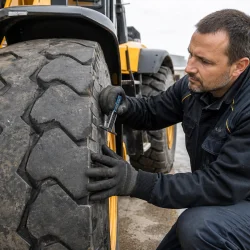
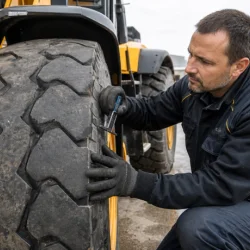
Polish article layout and image source tracking

diff --git a/public/css/style.css b/public/css/style.css
@@ -6541,6 +6541,54 @@ body.catalog-open {
 .table-striped img{width:70px}
 .bg-light {background-color: #fff !important;padding: 10px 0;}
 .contents article{padding:30px}
+.contents .cont-desc{
+  font-size: 17px;
+  line-height: 1.75;
+  color: #111827;
+  overflow-x: auto;
+}
+.contents .cont-desc p,
+.contents .cont-desc ul,
+.contents .cont-desc ol,
+.contents .cont-desc table{
+  margin: 0 0 20px;
+}
+.contents .cont-desc h2,
+.contents .cont-desc h3{
+  margin: 34px 0 16px;
+  line-height: 1.25;
+}
+.contents .cont-desc h2:first-child,
+.contents .cont-desc h3:first-child{
+  margin-top: 0;
+}
+.contents .cont-desc ul,
+.contents .cont-desc ol{
+  padding-left: 28px;
+}
+.contents .cont-desc li{
+  margin-bottom: 8px;
+}
+.contents .cont-desc table{
+  width: 100%;
+  border-collapse: collapse;
+  border: 1px solid #d7dde5;
+  background: #fff;
+}
+.contents .cont-desc th,
+.contents .cont-desc td{
+  border: 1px solid #d7dde5;
+  padding: 12px 14px;
+  vertical-align: top;
+}
+.contents .cont-desc th{
+  background: #f3f6f8;
+  font-weight: 700;
+}
+.contents .article-related-products{
+  margin-top: 36px;
+  padding-top: 8px;
+}
 .nav-item .active .badge {background-color: #fff !important;color:var(--footer) !important}
 .nav-item .badge {background-color: var(--footer) !important;color:#fff !important}
 .desc-prod-inner{margin: 20px 0}

diff --git a/scripts/add_content_image_source.php b/scripts/add_content_image_source.php
@@ -1,0 +1,27 @@
+<?php
+
+$db = require __DIR__ . '/../config/config_db.php';
+
+$pdo = new PDO($db['dsn'], $db['user'], $db['pass']);
+$pdo->setAttribute(PDO::ATTR_ERRMODE, PDO::ERRMODE_EXCEPTION);
+
+$column = $pdo->prepare("
+    SELECT COUNT(*)
+    FROM information_schema.COLUMNS
+    WHERE TABLE_SCHEMA = DATABASE()
+      AND TABLE_NAME = 'contents'
+      AND COLUMN_NAME = 'img_source'
+");
+$column->execute();
+
+if ((int)$column->fetchColumn() === 0) {
+    $pdo->exec("
+        ALTER TABLE contents
+        ADD img_source ENUM('internet','ai','original','editor') NOT NULL DEFAULT 'internet'
+        AFTER img
+    ");
+}
+
+$pdo->exec("UPDATE contents SET img_source = 'internet' WHERE img_source IS NULL OR img_source = ''");
+
+echo "contents.img_source is ready" . PHP_EOL;

diff --git a/app/views/itscenter/admin/Contents/page-add.php b/app/views/itscenter/admin/Contents/page-add.php
@@ -97,6 +97,17 @@
 											</select>
 										</div>
 									</div>
+									<div class="form-group row">
+										<label class="col-sm-3 col-form-label" for="img_source">Источник изображения</label>
+										<div class="col-sm-9">
+											<select name="img_source" class="form-control" style="width: 100%;">
+												<option value="internet" selected="selected">Интернет</option>
+												<option value="ai">ИИ</option>
+												<option value="original">Оригинальное</option>
+												<option value="editor">Редактор</option>
+											</select>
+										</div>
+									</div>
 								</div>
 							</div>
 							<!-- /.tab-pane -->

diff --git a/app/views/itscenter/admin/Contents/page-edit.php b/app/views/itscenter/admin/Contents/page-edit.php
@@ -97,6 +97,17 @@
 												</select>
 											</div>
 										</div>
+										<div class="form-group row">
+											<label class="col-sm-3 col-form-label" for="img_source">Источник изображения</label>
+											<div class="col-sm-9">
+												<select name="img_source" class="form-control" style="width: 100%;">
+													<option value="internet" <?php if(($page->img_source ?: 'internet') == "internet") { echo "selected=\"selected\""; } ?>>Интернет</option>
+													<option value="ai" <?php if($page->img_source == "ai") { echo "selected=\"selected\""; } ?>>ИИ</option>
+													<option value="original" <?php if($page->img_source == "original") { echo "selected=\"selected\""; } ?>>Оригинальное</option>
+													<option value="editor" <?php if($page->img_source == "editor") { echo "selected=\"selected\""; } ?>>Редактор</option>
+												</select>
+											</div>
+										</div>
 									</div>
 								</div>
 								<!-- /.tab-pane -->

diff --git a/app/views/itscenter/Articles/view.php b/app/views/itscenter/Articles/view.php
@@ -157,14 +157,6 @@ $breadcrumbSchema = [
                         <div class="cont-desc">
                             <?=$find->content;?>
                         </div>
-
-                        <div class="share mt-4 pt-3 border-top">
-                            <div class="share-text mb-2">Поделиться:</div>
-                            <div class="share-ya">
-                                <script src="https://yastatic.net/share2/share.js"></script>
-                                <div class="ya-share2" data-curtain data-services="vkontakte,odnoklassniki,telegram,whatsapp"></div>
-                            </div>
-                        </div>
                     </article>
                 </div>
 
@@ -174,7 +166,7 @@ $breadcrumbSchema = [
                 ?>
 
                 <?php if($related): ?>
-                    <div class="related_prod">
+                    <div class="related_prod article-related-products">
                         <section class="pb-5 mb-2 mb-xl-4 recomend-1">
                             <h2 class="h3 pb-2 mb-grid-gutter text-center">Связанные товары</h2>
 

diff --git a/app/models/admin/ContentsType.php b/app/models/admin/ContentsType.php
@@ -344,14 +344,6 @@ $breadcrumbSchema = [
                         <div class="cont-desc">
                             <?=$find->content;?>
                         </div>
-
-                        <div class="share mt-4 pt-3 border-top">
-                            <div class="share-text mb-2">Поделиться:</div>
-                            <div class="share-ya">
-                                <script src="https://yastatic.net/share2/share.js"></script>
-                                <div class="ya-share2" data-curtain data-services="vkontakte,odnoklassniki,telegram,whatsapp"></div>
-                            </div>
-                        </div>
                     </article>
                 </div>
 

diff --git a/scripts/add_tire_wear_article.php b/scripts/add_tire_wear_article.php
@@ -137,6 +137,7 @@ HTML,
     'keywords' => 'износ шин спецтехники, быстро стираются шины погрузчика, причины износа шин, подбор шин для спецтехники, шины для вилочного погрузчика, цельнолитые шины, давление в шинах спецтехники',
     'img' => $image,
     'img_hide' => 'show',
+    'img_source' => 'ai',
     'hide' => 'show',
 ];
 
@@ -156,6 +157,7 @@ if ($contentId > 0) {
         keywords = :keywords,
         img = :img,
         img_hide = :img_hide,
+        img_source = :img_source,
         date_last_modified = NOW()
         WHERE id = :id";
     $updateData = $article;
@@ -164,9 +166,9 @@ if ($contentId > 0) {
     $stmt->execute($updateData + ['id' => $contentId]);
 } else {
     $sql = "INSERT INTO contents
-        (type_id, name, anons, content, date_post, alias, hide, title, description, keywords, img, img_hide, clicks)
+        (type_id, name, anons, content, date_post, alias, hide, title, description, keywords, img, img_hide, img_source, clicks)
         VALUES
-        (:type_id, :name, :anons, :content, NOW(), :alias, :hide, :title, :description, :keywords, :img, :img_hide, 0)";
+        (:type_id, :name, :anons, :content, NOW(), :alias, :hide, :title, :description, :keywords, :img, :img_hide, :img_source, 0)";
     $stmt = $pdo->prepare($sql);
     $stmt->execute($article);
     $contentId = (int)$pdo->lastInsertId();

diff --git a/app/models/admin/ContentsPages.php b/app/models/admin/ContentsPages.php
@@ -18,6 +18,7 @@ class ContentsPages extends AppModel{
 		'description' => '',
 		'keywords' => '',
 		'img_hide' => '',
+		'img_source' => 'internet',
     ];
 
     public $rules = [